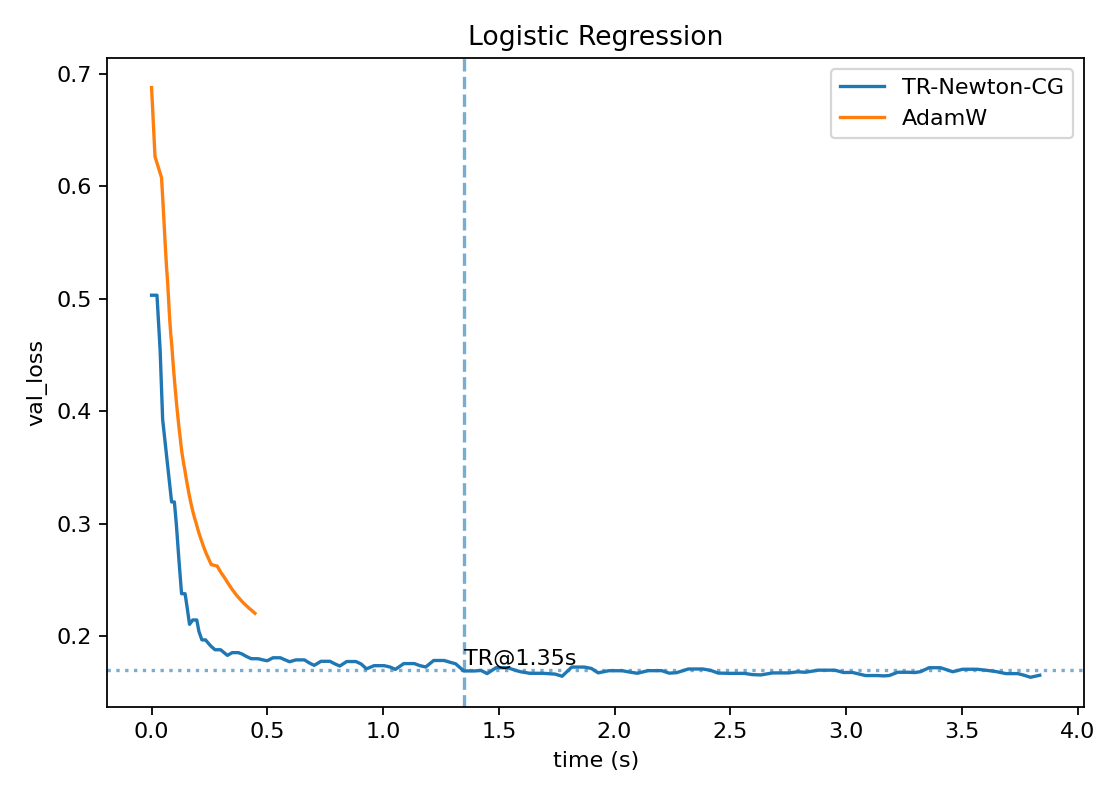
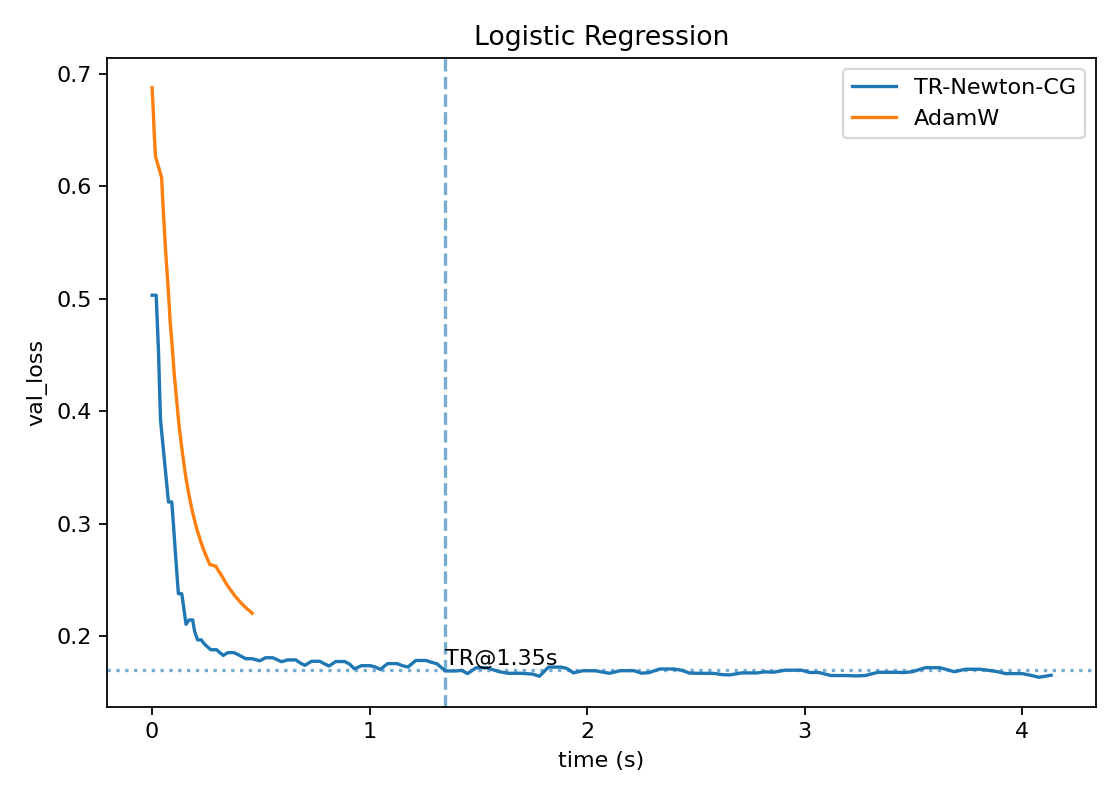
Add robust figure generator; update README with time-to-target metrics

diff --git a/make_figs.py b/make_figs.py
@@ -1,0 +1,103 @@
+from pathlib import Path
+import numpy as np, pandas as pd, matplotlib.pyplot as plt, re
+
+base = Path.home() / "trncg" / "trncg_pytorch_suite"
+
+def load_last_clean(csv_path: Path):
+    if not csv_path.exists():
+        raise FileNotFoundError(f"missing: {csv_path}")
+    df = pd.read_csv(csv_path)
+    for col in ["time_s","val_loss","val_acc","accepted","cg_iters","rho","delta","train_loss"]:
+        if col in df.columns:
+            df[col] = pd.to_numeric(df[col], errors="coerce")
+    df = df.dropna(subset=["time_s"]).reset_index(drop=True)
+    t = df["time_s"].to_numpy()
+    cuts = np.where(np.diff(t) < 0)[0]
+    if len(cuts):
+        df = df.iloc[cuts[-1]+1:].reset_index(drop=True)
+        t = df["time_s"].to_numpy()
+    df["t"] = t - t[0]
+    return df
+
+def save_logistic(tr_csv, aw_csv, out_png, thr=0.17):
+    tr = load_last_clean(tr_csv)
+    aw = load_last_clean(aw_csv)
+    def t_to_thr(df):
+        ok = df[df["val_loss"] <= thr]
+        return float(ok["t"].iloc[0]) if len(ok) else float("inf")
+    t_tr, t_aw = t_to_thr(tr), t_to_thr(aw)
+    plt.figure(figsize=(7,5))
+    plt.plot(tr["t"], tr["val_loss"], label="TR-Newton-CG")
+    plt.plot(aw["t"], aw["val_loss"], label="AdamW")
+    plt.axhline(thr, ls=":", alpha=.6)
+    for x,name in [(t_tr,"TR"),(t_aw,"AdamW")]:
+        if np.isfinite(x):
+            plt.axvline(x, ls="--", alpha=.6)
+            plt.text(x, thr+0.005, f"{name}@{x:.2f}s")
+    plt.xlabel("time (s)"); plt.ylabel("val_loss"); plt.title("Logistic Regression"); plt.legend(); plt.tight_layout()
+    plt.savefig(out_png, dpi=160); plt.close()
+    return t_tr, t_aw
+
+def save_mnist(tr_csv, aw_csv, out_png, thr_acc=0.97):
+    tr = load_last_clean(tr_csv)
+    aw = load_last_clean(aw_csv)
+    def t_to_acc(df):
+        ok = df[df["val_acc"] >= thr_acc]
+        return float(ok["t"].iloc[0]) if len(ok) else float("inf")
+    t_tr, t_aw = t_to_acc(tr), t_to_acc(aw)
+    plt.figure(figsize=(7,5))
+    plt.plot(tr["t"], tr["val_acc"], label="TR-Newton-CG")
+    plt.plot(aw["t"], aw["val_acc"], label="AdamW")
+    plt.axhline(thr_acc, ls=":", alpha=.6)
+    for x,name in [(t_tr,"TR"),(t_aw,"AdamW")]:
+        if np.isfinite(x):
+            plt.axvline(x, ls="--", alpha=.6)
+            plt.text(x, thr_acc+0.002, f"{name}@{x:.2f}s")
+    plt.xlabel("time (s)"); plt.ylabel("val_acc"); plt.title("MNIST (1 epoch)"); plt.legend(); plt.tight_layout()
+    plt.savefig(out_png, dpi=160); plt.close()
+    return t_tr, t_aw
+
+def fmt_time(x): return f"{x:.2f}s" if np.isfinite(x) else "not reached"
+
+log_tr = base/"results_logreg/logistic_tr_seed42/metrics.csv"
+log_aw = base/"results_logreg/logistic_adamw_seed42/metrics.csv"
+png_log = Path("figures/logreg_tr_vs_adamw.png")
+t_tr_loss, t_aw_loss = save_logistic(log_tr, log_aw, png_log)
+
+png_mnist = Path("figures/mnist_tr_vs_adamw.png")
+mnist_ok = False
+try:
+    mn_tr = base/"results_mnist/mnist_tr_seed42/metrics.csv"
+    mn_aw = base/"results_mnist/mnist_adamw_seed42/metrics.csv"
+    t_tr_acc, t_aw_acc = save_mnist(mn_tr, mn_aw, png_mnist)
+    mnist_ok = True
+except Exception as e:
+    t_tr_acc = t_aw_acc = float("inf")
+
+rd_path = Path("README.md")
+rd = rd_path.read_text(encoding="utf-8") if rd_path.exists() else ""
+
+log_block = f"""
+## Results (Logistic Regression)
+- Time-to-0.17 loss: **TR {fmt_time(t_tr_loss)}** vs **AdamW {fmt_time(t_aw_loss)}**.
+
+![TR vs AdamW](figures/logreg_tr_vs_adamw.png)
+"""
+
+if "figures/logreg_tr_vs_adamw.png" not in rd:
+    rd += "\n" + log_block
+
+if mnist_ok:
+    mnist_block = f"""
+## Results (MNIST)
+- Time-to-97% accuracy (1 epoch): **TR {fmt_time(t_tr_acc)}** vs **AdamW {fmt_time(t_aw_acc)}**.
+
+![MNIST TR vs AdamW](figures/mnist_tr_vs_adamw.png)
+"""
+    if "## Results (MNIST)" in rd:
+        rd = re.sub(r"## Results \(MNIST\)[\s\S]*?(?=\n## |\Z)", mnist_block.strip(), rd, count=1)
+    else:
+        rd += "\n" + mnist_block
+
+rd_path.write_text(rd.strip()+"\n", encoding="utf-8")
+print("Saved figures and updated README.")

diff --git a/README.md b/README.md
@@ -12,3 +12,9 @@ Custom trust-region Newton–CG optimizer (mini-batch HVPs, diagonal preconditio
 python3 -m venv .venv && source .venv/bin/activate
 pip install -U pip
 pip install -r requirements.txt
+
+
+## Results (MNIST)
+- Time-to-97% accuracy (1 epoch): **TR not reached** vs **AdamW not reached**.
+
+![MNIST TR vs AdamW](figures/mnist_tr_vs_adamw.png)
